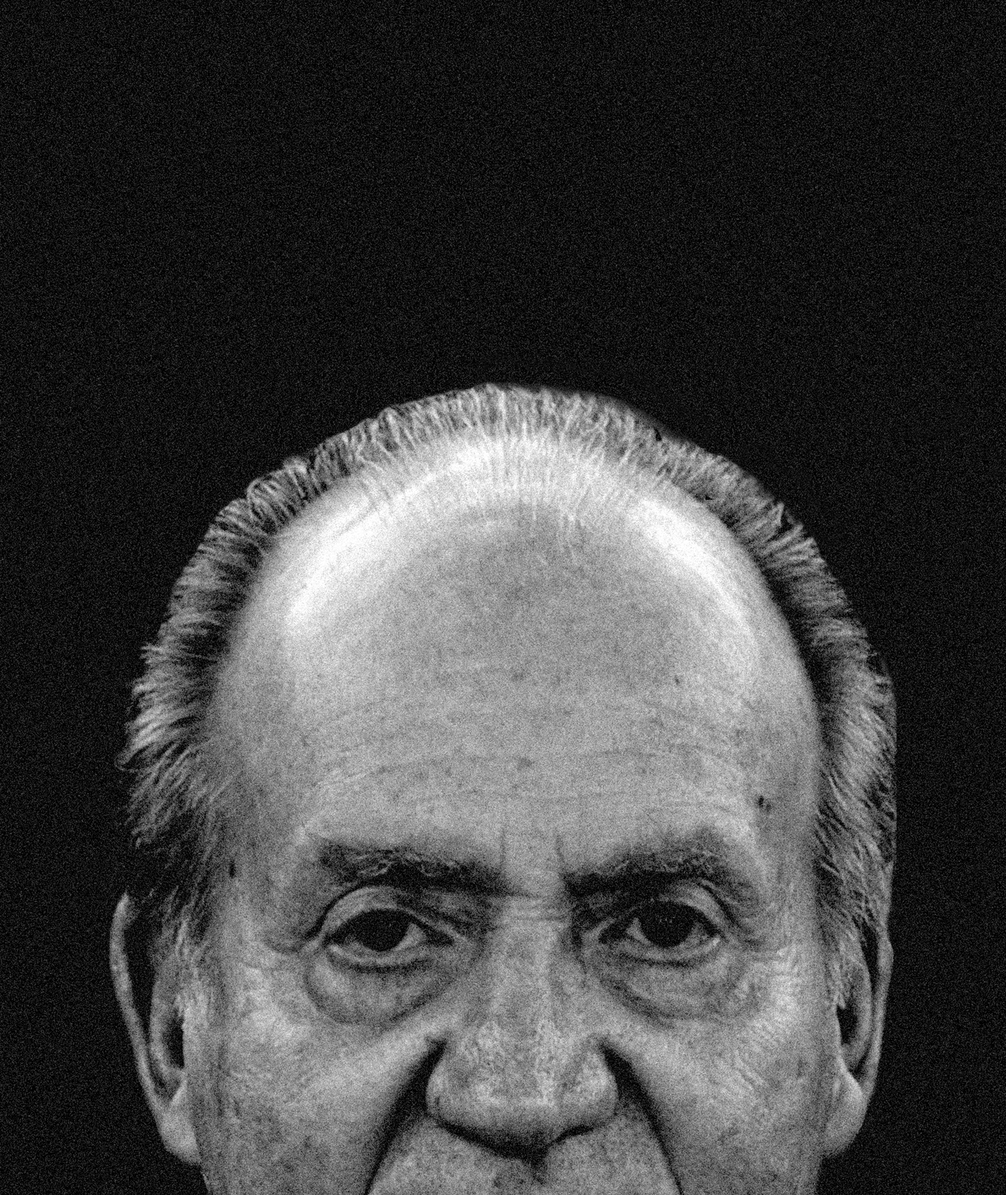
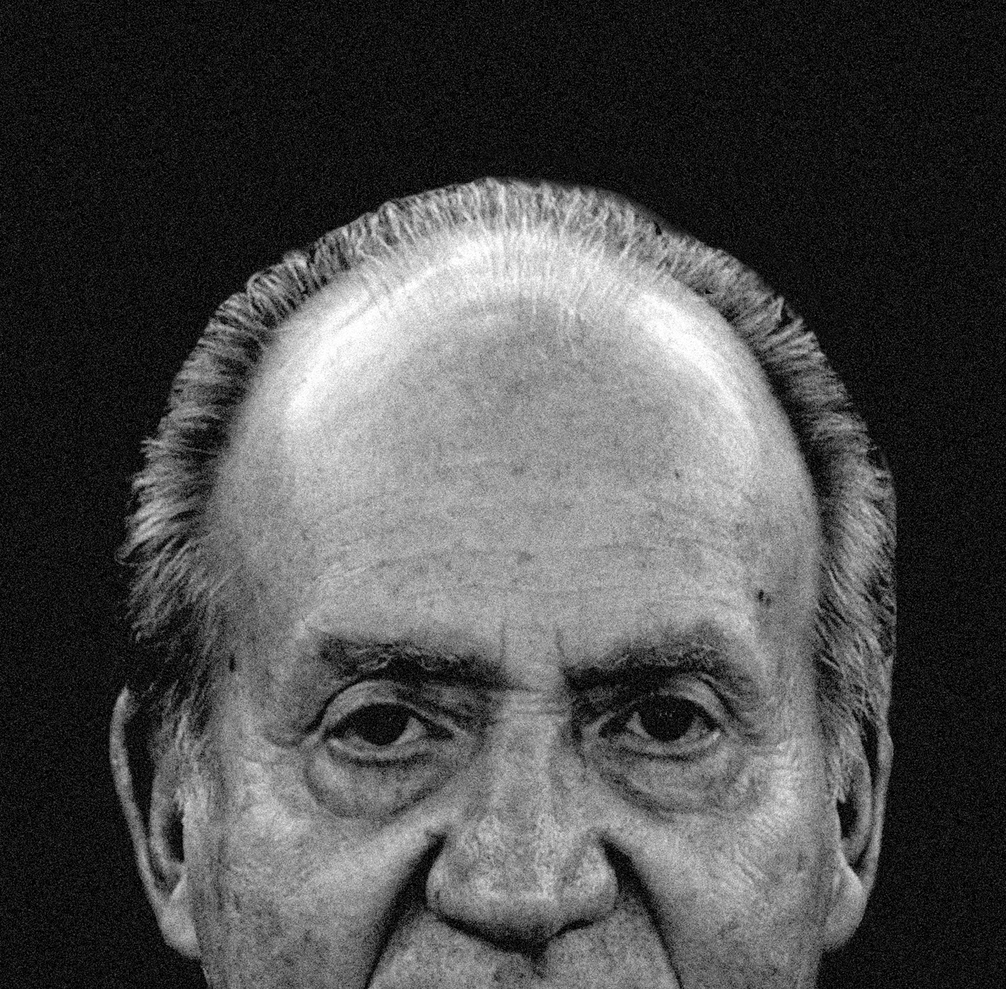
Se busca

diff --git a/fuentes/index.html b/fuentes/index.html
@@ -8,7 +8,7 @@
   <body>
     <div id="contenido">
       <h1>¡ SE BUSCA !</h1>
-      <img src="imgs/sebusca.jpg" alt="" width="600">
+      <img src="imgs/sebusca.jpg" alt="">
       <p>
         <h2>1.000.000.000 €</h2>
         <h3>ExRey de España</h3>

diff --git a/fuentes/estilaso.css b/fuentes/estilaso.css
@@ -24,6 +24,11 @@ div#contenido{
   background-color: rgba(206, 175, 157, 0.7);
 }
 
+div#contenido img {
+  width: 60%;
+}
+
+
 h1, h2, h3 {
   text-shadow: -2px 0 white, 0 2px white, 2px 0 white, 0 -2px white;
   font-family: West;
